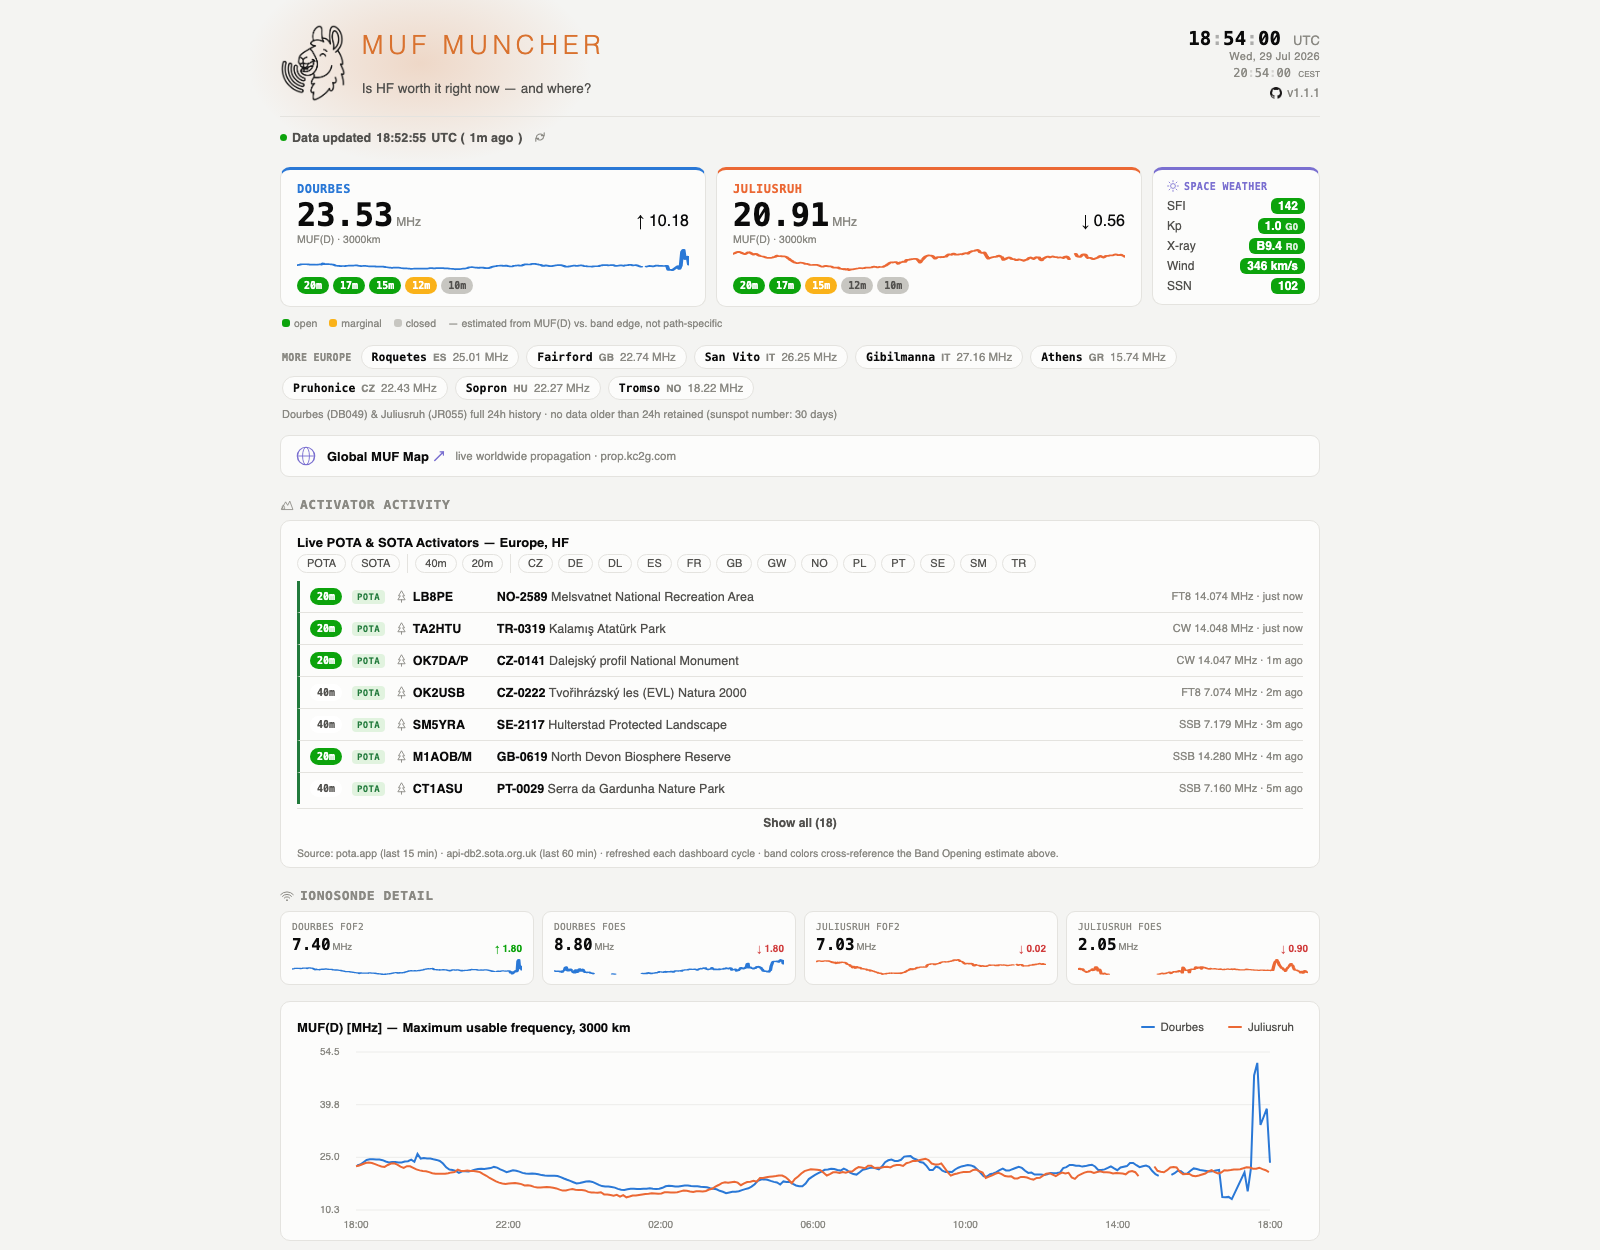
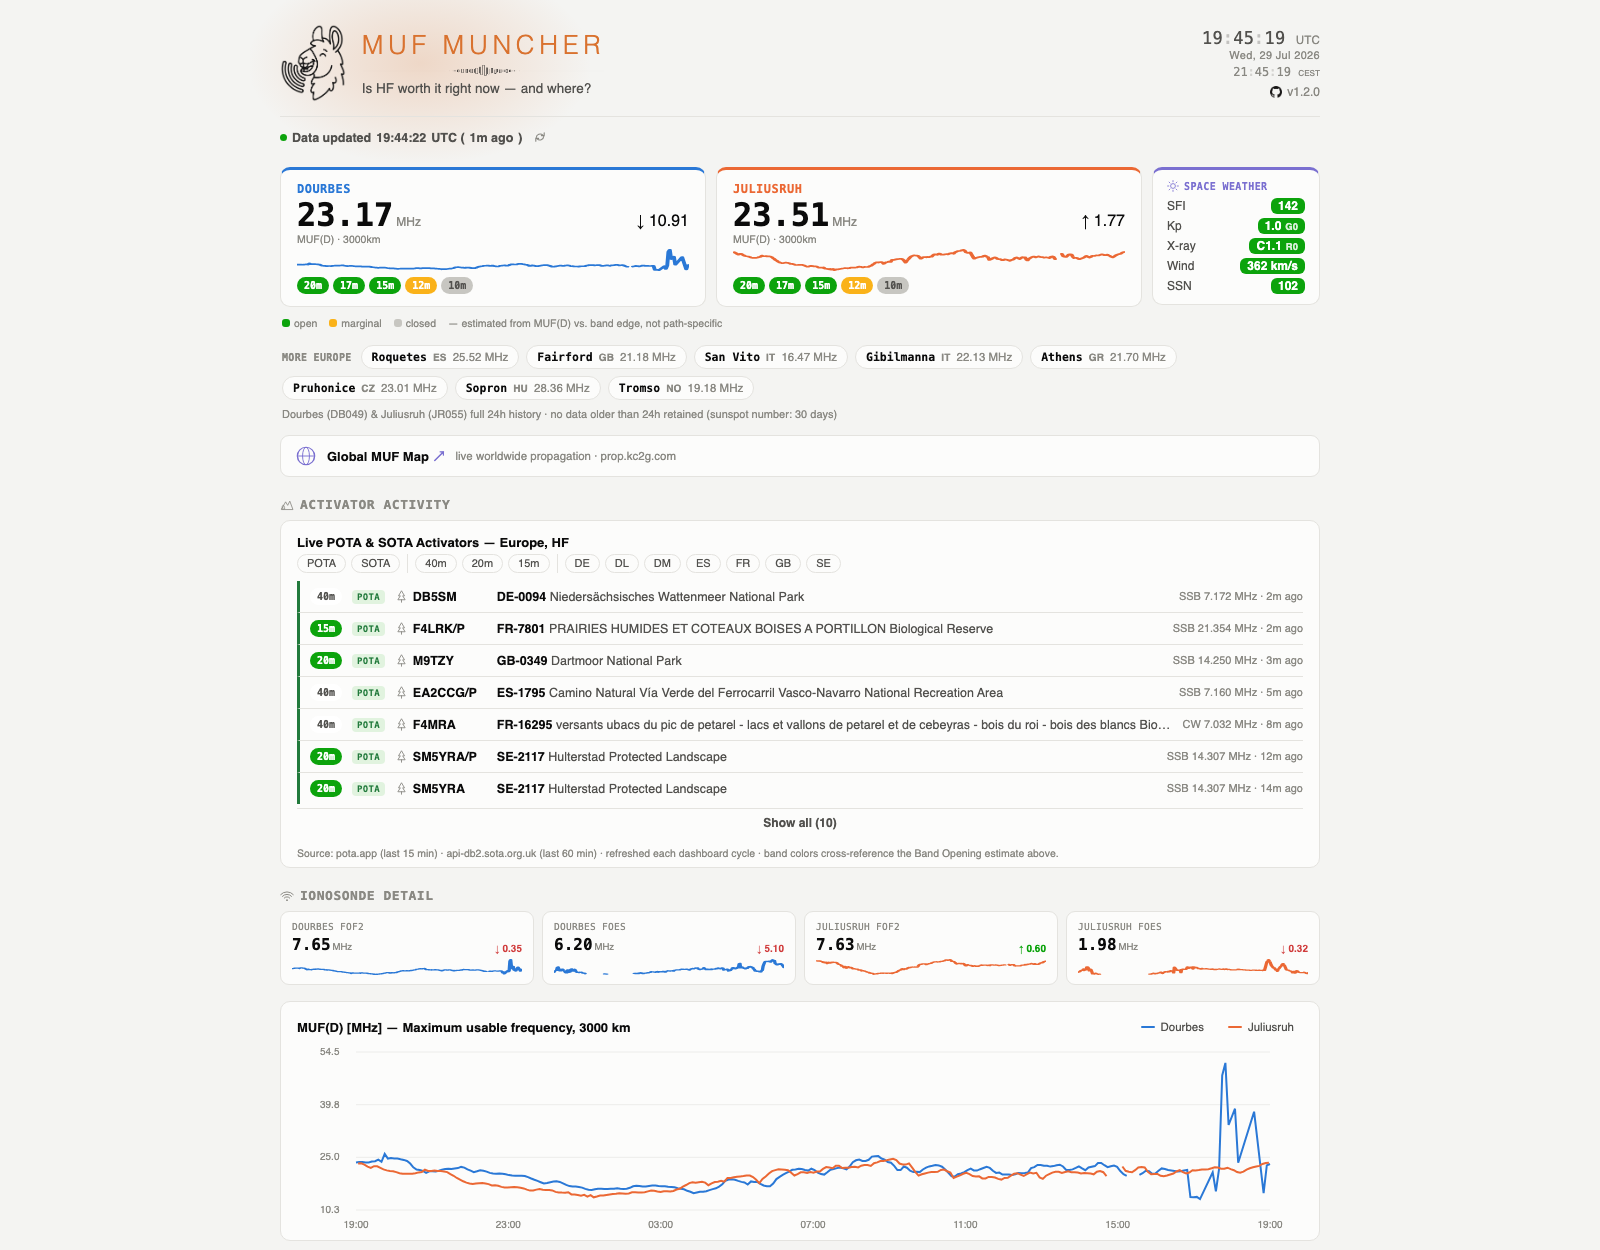
Bump to v1.2.0: header redesign, CI persistence, band-color docs
Bundles everything since v1.1.1: the line-art logo header (llama +
waveform, thin wordmark, glow accent), a de-emphasized clock so the
logo reads as the primary anchor, GitHub Actions history persistence
via actions/cache, GIRO request throttling, and the explanation for
why only 20-10m get band-opening colors. README updated with a full
[1.2.0] changelog entry and refreshed screenshots.

diff --git a/muf.css b/muf.css
@@ -129,7 +129,7 @@
   .version-link:hover { color: var(--text-primary); }
   .coverage-note { font-size: 11px; color: var(--text-muted); margin: -6px 0 14px 2px; }
   .live-clock { text-align: right; font-family: var(--font-mono); }
-  .clock-utc { font-size: 19px; font-weight: 650; font-variant-numeric: tabular-nums; color: var(--text-primary); letter-spacing: .01em; }
+  .clock-utc { font-size: 17px; font-weight: 500; font-variant-numeric: tabular-nums; color: var(--text-secondary); letter-spacing: .01em; }
   .clock-date { font-size: 11px; font-weight: 500; color: var(--text-muted); letter-spacing: .03em; margin-top: 1px; font-family: var(--font-sans); }
   .clock-local { font-size: 12px; font-variant-numeric: tabular-nums; color: var(--text-muted); margin-top: 3px; }
   .clock-tz { font-size: 0.68em; font-weight: 500; color: var(--text-muted); font-family: var(--font-sans); }

diff --git a/muf.py b/muf.py
@@ -17,7 +17,7 @@ from datetime import datetime, timedelta, timezone
 
 import plotext as plt
 
-VERSION = "1.1.1"
+VERSION = "1.2.0"
 REPO_URL = "https://github.com/mooxle/Muf_Muncher"
 # Self-identifying User-Agent for every outbound fetch - lets GIRO/NOAA/POTA
 # see this is an automated client (and how to reach the maintainer) rather

diff --git a/README.md b/README.md
@@ -110,14 +110,14 @@ GET https://lgdc.uml.edu/fastchar/getbest
 The block above is a readable illustration of the request, not something you can paste directly into a shell — the parentheses in `MUF(D)` and the space in the date are shell-special characters. To actually try it, let `curl --data-urlencode` handle the escaping instead of doing it by hand:
 
 ```bash
-curl -A "MufMuncher/1.1.0 (+https://github.com/mooxle/Muf_Muncher)" -G "https://lgdc.uml.edu/fastchar/getbest" \
+curl -A "MufMuncher/1.2.0 (+https://github.com/mooxle/Muf_Muncher)" -G "https://lgdc.uml.edu/fastchar/getbest" \
   --data-urlencode "ursiCode=DB049" \
   --data-urlencode "charName=foF2,MUF(D),foEs" \
   --data-urlencode "fromDate=2026/07/23 10:00:00" \
   --data-urlencode "toDate=2026/07/24 10:00:00"
 ```
 
-`muf.py` sends this same self-identifying `User-Agent` on every request to every source (GIRO, NOAA, POTA) rather than spoofing a browser — it turns out not to be required for a response, but it's the more transparent, identifiable way for an automated client to behave. Response is a commented, whitespace-delimited text table:
+`muf.py` sends this same self-identifying `User-Agent` on every request to every source (GIRO, NOAA, POTA) rather than spoofing a browser — it turns out not to be required for a response, but it's the more transparent, identifiable way for an automated client to behave. Requests to GIRO specifically (the two hero stations plus 8 ticker stations, all against `lgdc.uml.edu`) are also spaced out by ~750ms each, since a fast burst of 10 requests from the same IP occasionally gets rate-limited (`HTTP 429`) — observed in practice from GitHub Actions' shared runner IP ranges more than from a home connection. Response is a commented, whitespace-delimited text table:
 
 ```
 # Global Ionospheric Radio Observatory (GIRO)
@@ -350,6 +350,21 @@ That's the entire runtime dependency list — everything else (HTTP requests, JS
 ---
 
 ## Changelog
+
+### [1.2.0] - 2026-07-29
+#### Added
+- An explanation (hover tooltip on the gray chip, plus a note here in the README) for why only 20-10m get an open/marginal/closed color in Activator Activity — MUF(D) is an upper bound, so applying the same logic to 40m/80m would read "open" almost permanently regardless of real conditions.
+
+#### Changed
+- New header identity: the flat banner image is replaced by a line-art llama + waveform logo (transparent, CSS-inverted for dark mode instead of a second asset) next to a thin, wide-tracked wordmark in a warm accent color, with a soft radial glow behind it.
+- The header clock is smaller and lighter than before, so the logo reads as the primary visual anchor instead of competing with it.
+- GIRO/lgdc.uml.edu requests are now spaced out (~750ms apart) instead of firing back-to-back, to make the `HTTP 429`s below less likely in the first place.
+
+#### Fixed
+- GitHub Actions runs now persist the last known station history across runs (`actions/cache`) — previously, every run started from a clean checkout with no local store, so a single rate-limited fetch on CI wiped that station's entire chart instead of just skipping new points.
+- The header's waveform divider was invisible in production: its width was measured while the page was still in its initial `display:none` loading state, which always computes to 0. Moved the measurement to after the page is actually revealed.
+- A badly-cropped, asymmetric header screenshot in the README.
+- Screenshot links in the README 404'd when viewed on Forgejo: a raw HTML `<a href="relative.png">` isn't rewritten to a working path by its markdown renderer (unlike `<img src>`, which is) — switched to standard Markdown `[![]()]()` link syntax, which resolves correctly on both GitHub and Forgejo.
 
 ### [1.1.1] - 2026-07-29
 #### Fixed
